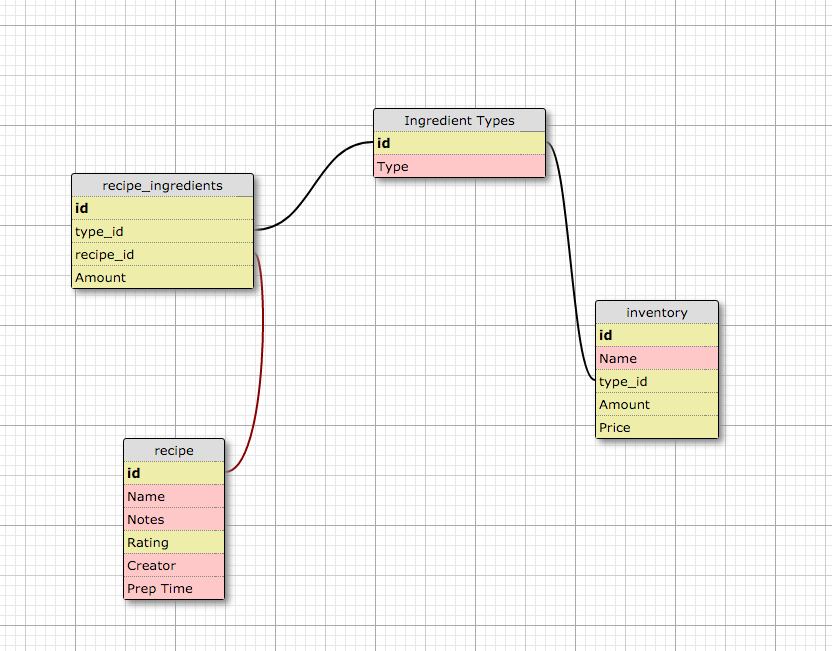
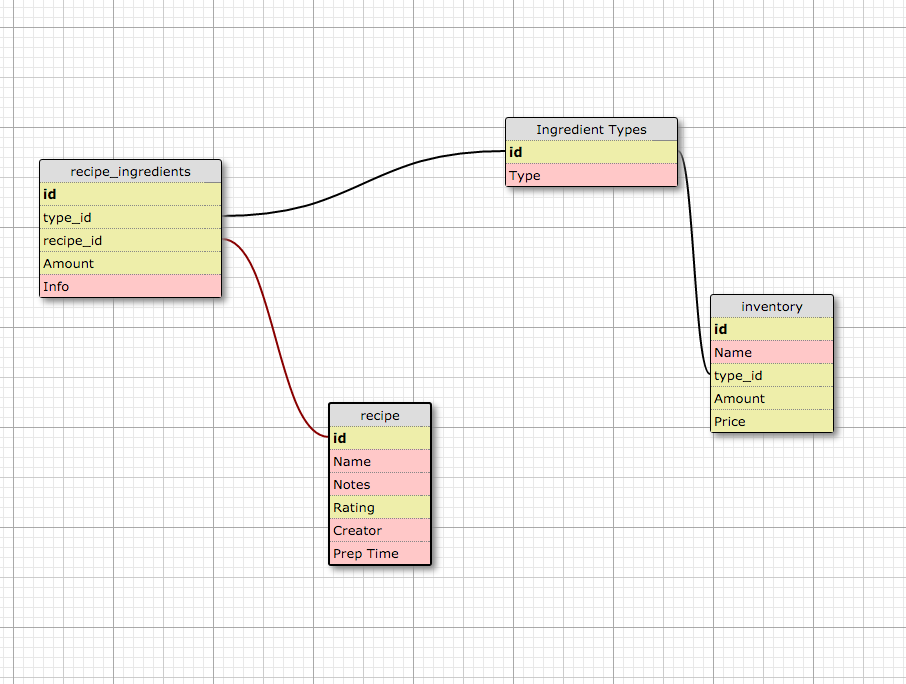
adjust db and db map img

diff --git a/src/test/java/DatabaseRule.java b/src/test/java/DatabaseRule.java
@@ -10,13 +10,13 @@ public class DatabaseRule extends ExternalResource {
   protected void after() {
     try(Connection con = DB.sql2o.open()) {
       String deleteRecipeQuery = "DELETE FROM recipes *;";
-      String deleteIngredientsQuery = "DELETE FROM ingredients *;";
-      String deleteIngredient_TypesQuery = "DELETE FROM ingredient_types *;";
-      String deleteRecipes_IngredientsQuery = "DELETE FROM recipes_ingredients *;";
+      String deleteItemsQuery = "DELETE FROM items *;";
+      String deleteItem_TypesQuery = "DELETE FROM item_types *;";
+      String deleteRecipes_ItemsQuery = "DELETE FROM recipes_items *;";
       con.createQuery(deleteRecipeQuery).executeUpdate();
-      con.createQuery(deleteIngredientsQuery).executeUpdate();
-      con.createQuery(deleteRecipes_IngredientsQuery).executeUpdate();
-      con.createQuery(deleteIngredient_TypesQuery).executeUpdate();
+      con.createQuery(deleteItemsQuery).executeUpdate();
+      con.createQuery(deleteRecipes_ItemsQuery).executeUpdate();
+      con.createQuery(deleteItem_TypesQuery).executeUpdate();
     }
   }
 }

diff --git a/src/main/java/Recipe.java b/src/main/java/Recipe.java
@@ -109,4 +109,15 @@ public class Recipe {
     }
   }
 
+  public void addItem(Item item) {
+    // not including the amount and info columns from table
+  String sql = "INSERT INTO recipes_items (type_id, recipe_id) VALUES (:type_id, :recipe_id);";
+  try (Connection con = DB.sql2o.open()) {
+    con.createQuery(sql)
+    .addParameter("type_id", type.getId())
+    .addParameter("recipe_id", this.getId())
+    .executeUpdate();
+  }
+}
+
 }
